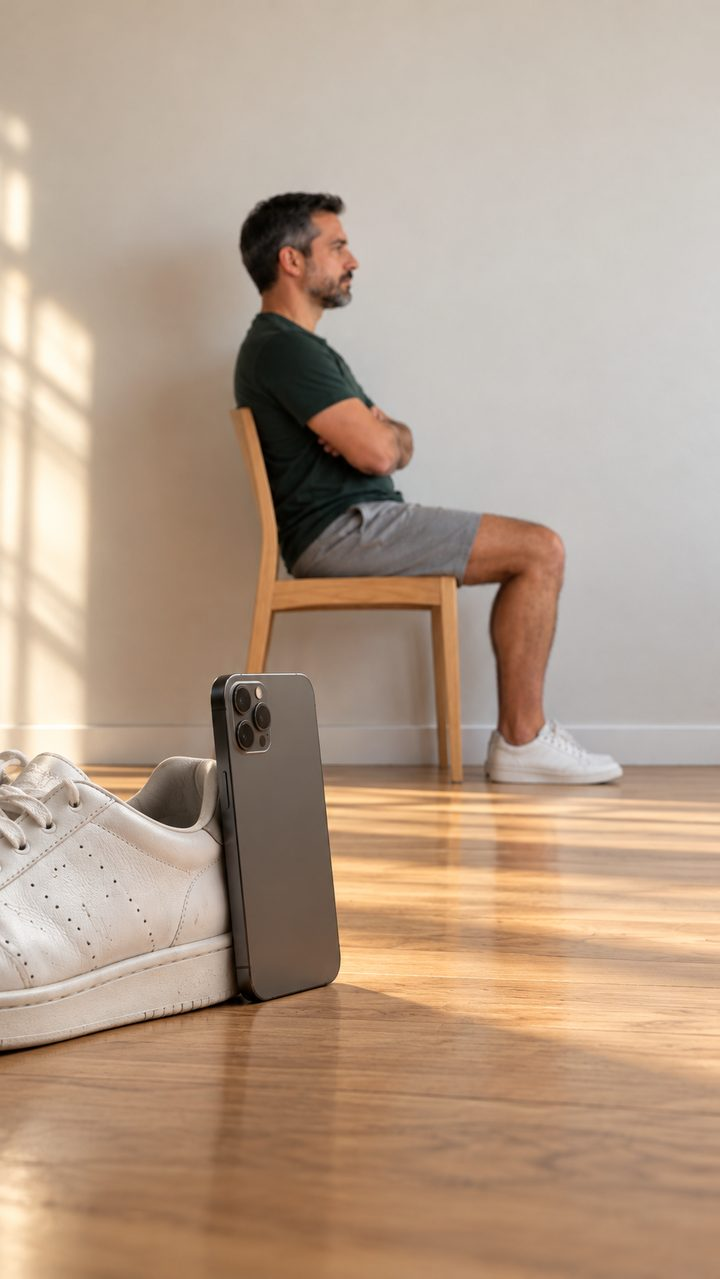
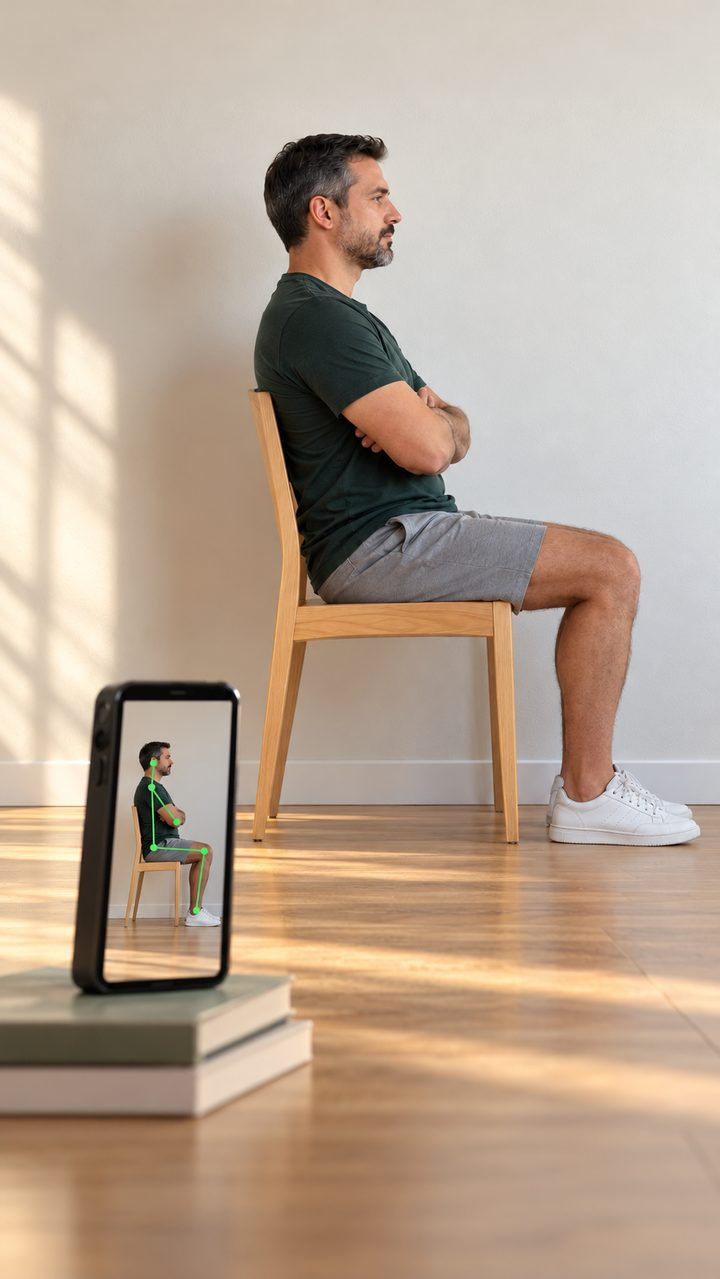
idade: movimento em 3 quadros (sentado, levantando com tronco inclinado, em pé) e nova foto do celular

diff --git a/idade/index.html b/idade/index.html
@@ -42,8 +42,10 @@ p{margin:0}
 .dot{width:8px;height:8px;border-radius:50%;background:var(--accent)}
 .anim{position:relative;width:100%;aspect-ratio:3/4;max-height:50vh;border-radius:22px;overflow:hidden;background:#f3f2ef;border:1px solid var(--line)}
 .anim img{position:absolute;inset:0;width:100%;height:100%;object-fit:cover}
-.anim .up{animation:stand 2.4s ease-in-out infinite}
-@keyframes stand{0%,20%{opacity:0}40%,70%{opacity:1}90%,100%{opacity:0}}
+.anim .mid{animation:mid 2.4s steps(1,end) infinite}
+.anim .up{animation:up 2.4s steps(1,end) infinite}
+@keyframes mid{0%{opacity:0}30%{opacity:1}45%{opacity:0}75%{opacity:1}90%{opacity:0}}
+@keyframes up{0%{opacity:0}45%{opacity:1}75%{opacity:0}}
 .anim .tag{position:absolute;left:12px;bottom:12px;background:rgba(0,0,0,.6);color:#fff;border-radius:999px;padding:6px 12px;font:600 .85rem var(--body)}
 .hero-card{display:grid;grid-template-columns:1fr 1fr;gap:10px}
 .mini{background:var(--surface);border:1px solid var(--line);border-radius:16px;padding:14px;display:flex;flex-direction:column;gap:4px}
@@ -106,7 +108,7 @@ p{margin:0}
     <div class="who" style="margin-top:20px"><span class="dot"></span><span><b>Dr. Lucca Marques</b> · Médico · CRM-GO 33.990</span></div>
     <h1>Quantos anos têm as suas pernas?</h1>
     <p class="sub">Levante da cadeira 5 vezes na frente da câmera e veja a idade que a sua potência mostra.</p>
-    <div class="anim" aria-hidden="true"><img src="img/sentado.jpg" alt=""><img class="up" src="img/em-pe.jpg" alt=""></div>
+    <div class="anim" aria-hidden="true"><img src="img/sentado.jpg" alt=""><img class="mid" src="img/levantando.jpg" alt=""><img class="up" src="img/em-pe.jpg" alt=""></div>
     <div class="hero-card">
       <div class="mini"><b>1 minuto</b><span>com a câmera do celular</span></div>
       <div class="mini"><b>Sem cadastro</b><span>o resultado sai na hora</span></div>
@@ -121,7 +123,7 @@ p{margin:0}
     </div>
     <ol class="steps">
       <li><em>1</em><span>Celular em pé no chão, apoiado num tênis ou num livro, a uns 3 passos.</span></li>
-      <li><em>2</em><span>Sente na cadeira, de lado para o celular, braços cruzados.</span></li>
+      <li><em>2</em><span>Sente na cadeira, de lado para o celular, braços cruzados na frente do peito.</span></li>
       <li><em>3</em><span>Levante e sente 5 vezes, o mais rápido que conseguir. A voz te guia.</span></li>
     </ol>
     <p class="notice">Não faça se tiver dor no peito, tontura, problema no joelho ou no quadril, ou uma queda recente. Tenha alguém por perto.</p>
